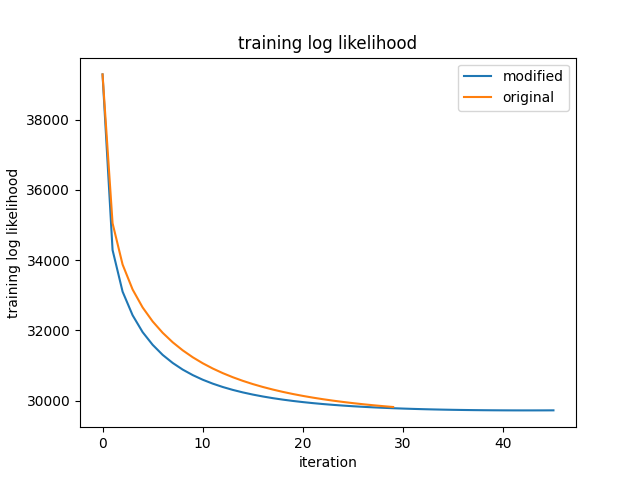
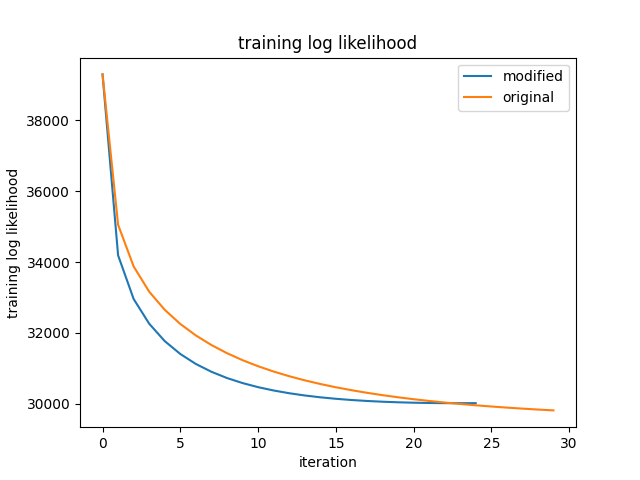
Part 2 NLLK revised

diff --git a/starter_code/part_b/irt_improvement.py b/starter_code/part_b/irt_improvement.py
@@ -25,8 +25,12 @@ def neg_log_likelihood(data, theta, beta, randomness, slopes):
     """
     log_lklihood = 0.
     for i in range(len(data["user_id"])):
+        a = randomness[data["question_id"][i]]
+        k = slopes[data["question_id"][i]]
+        c = data["is_correct"][i]
         diff = theta[data["user_id"][i]] - beta[data["question_id"][i]]
-        log_lklihood += data["is_correct"][i] * diff - np.log1p(np.exp(diff))
+        frac = np.exp(diff * k)/ (1 + np.exp(diff * k))
+        log_lklihood += c * np.log(a + (1-a)*frac) + (1-c) * np.log(1-a- (1-a)*frac)
     return -log_lklihood
 
 
@@ -66,8 +70,8 @@ def update_theta_beta(data, lr, theta, beta, randomness, slopes):
                     (c - 1) * k * np.exp(x) + (c - a) * np.exp(y)) / (np.exp(x) * k + np.exp(y)) / (
                                                           np.exp(x) * k + a * np.exp(y))
     for i in range(len(data["user_id"])):
-        if randomness[data["question_id"][i]] < 0:
-            randomness[data["question_id"][i]] = 0
+        if randomness[data["question_id"][i]] <= 0:
+            randomness[data["question_id"][i]] = 0.0001
         if randomness[data["question_id"][i]] >= 1:
             randomness[data["question_id"][i]] = 0.9999
     return theta, beta, randomness, slopes
@@ -146,7 +150,12 @@ def main():
     val_data = load_valid_csv("../data")
     test_data = load_public_test_csv("../data")
 
-    write = False
+    write = True
+    lr = 0.015
+    iterations = 25
+    theta, beta, randomness, slopes, validation_log_likelihood, training_log_likelihood = irt(
+        train_data, val_data, lr, iterations)
+
     if write:
         rows = []
         with open('../data/private_test_data.csv') as f:
@@ -154,13 +163,6 @@ def main():
             for row in f_csv:
                 #print(row)
                 rows.append(row)
-
-    lr = 0.015
-    iterations = 46
-    theta, beta, randomness, slopes, validation_log_likelihood, training_log_likelihood = irt(
-        train_data, val_data, lr, iterations)
-
-    if write:
         rows[0] = ["id", "is_correct"]
         for row_index in range(1, len(rows)):
             rows[row_index][2] = predict(int(rows[row_index][0]), int(rows[row_index][1]), theta, beta, randomness, slopes)
@@ -177,6 +179,13 @@ def main():
     iterations_org = 30
     theta_org, beta_org, validation_log_likelihood_org, training_log_likelihood_org = starter_code.part_a.item_response.irt(
         train_data, val_data, lr_org, iterations_org)
+
+    acc_test = evaluate(test_data, theta, beta, randomness, slopes)
+    print("Modified Final Test Score: {}".format(acc_test))
+
+    acc_test = starter_code.part_a.item_response.evaluate(test_data, theta_org, beta_org)
+    print("Original Final Test Score: {}".format(acc_test))
+    #exit(0)
 
     questions = np.array([200, 1000, 1300])
     #print(randomness[questions])
@@ -197,7 +206,7 @@ def main():
     plt.title("Probablity to theta")
     plt.legend()
     plt.show()
-    exit(0)
+    #exit(0)
 
     plt.title("validation log likelihood")
     plt.xlabel("iteration")
@@ -215,11 +224,6 @@ def main():
     plt.legend()
     plt.show()
 
-    acc_test = evaluate(test_data, theta, beta, randomness, slopes)
-    print("Modified Final Test Score: {}".format(acc_test))
-
-    acc_test = starter_code.part_a.item_response.evaluate(test_data, theta_org, beta_org)
-    print("Original Final Test Score: {}".format(acc_test))
 
 
 if __name__ == "__main__":
